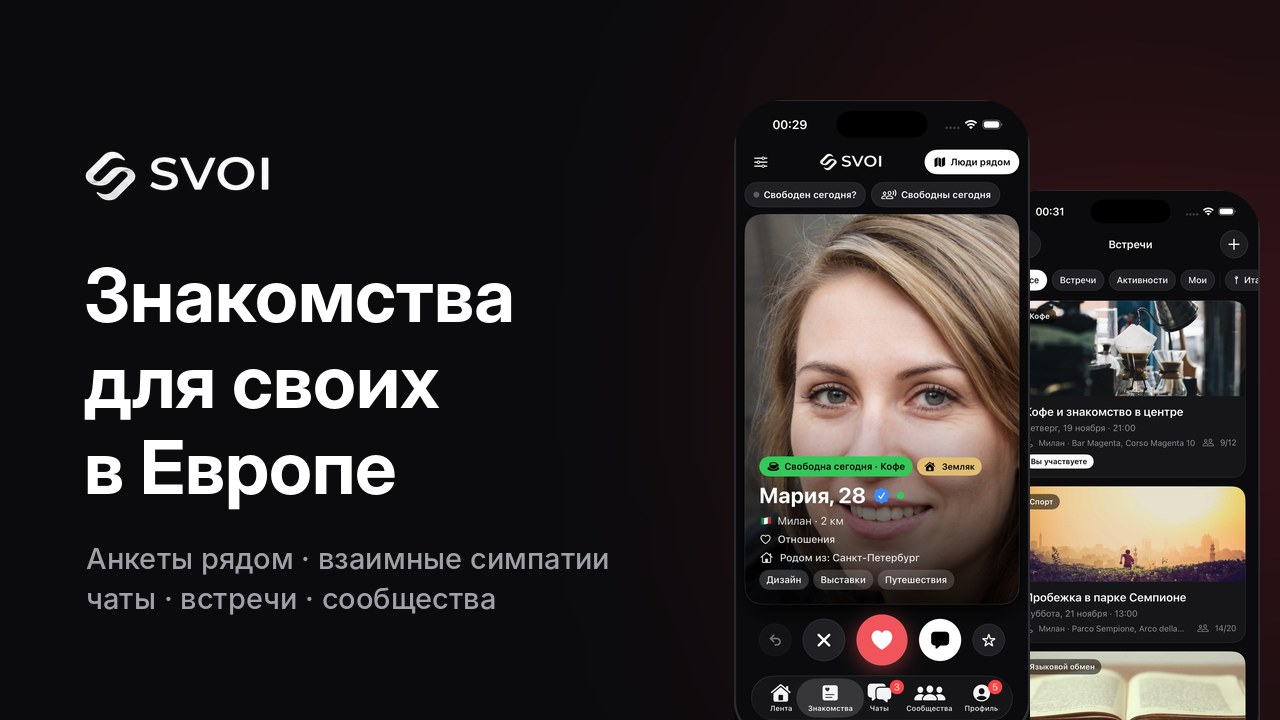
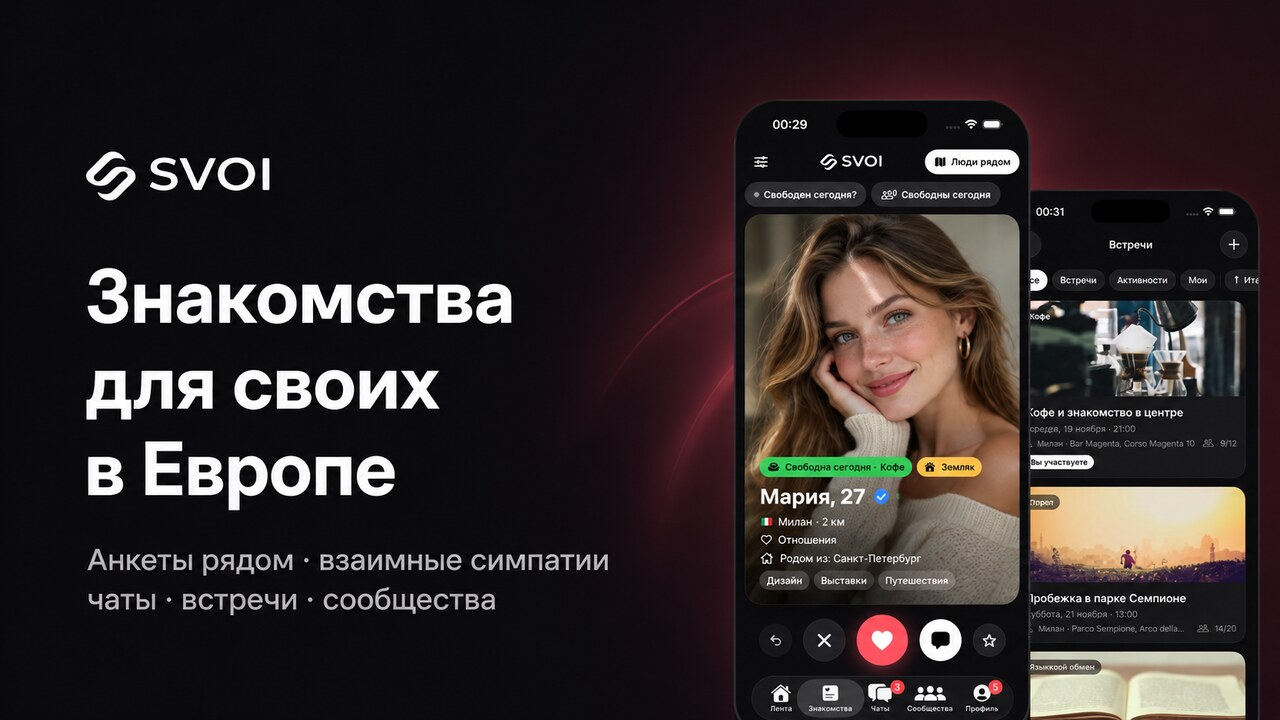
Новая картинка приветствия бота
Claude-Session: https://claude.ai/code/session_01CPcS2GS1jQAvScx8HtkkPq

diff --git a/index.html b/index.html
@@ -9,7 +9,7 @@
   <meta name="robots" content="noindex">
   <meta property="og:title" content="Свои — Знакомства в Европе">
   <meta property="og:description" content="Анкеты рядом, взаимные симпатии, чаты, встречи и сообщества — в Telegram.">
-  <meta property="og:image" content="https://date.svoiapp.info/bot/welcome.jpg">
+  <meta property="og:image" content="https://date.svoiapp.info/bot/welcome2.jpg">
   <link rel="icon" href="/assets/icon-64.png">
   <link rel="apple-touch-icon" href="/assets/icon-192.png">
   <script src="https://telegram.org/js/telegram-web-app.js?59"></script>
